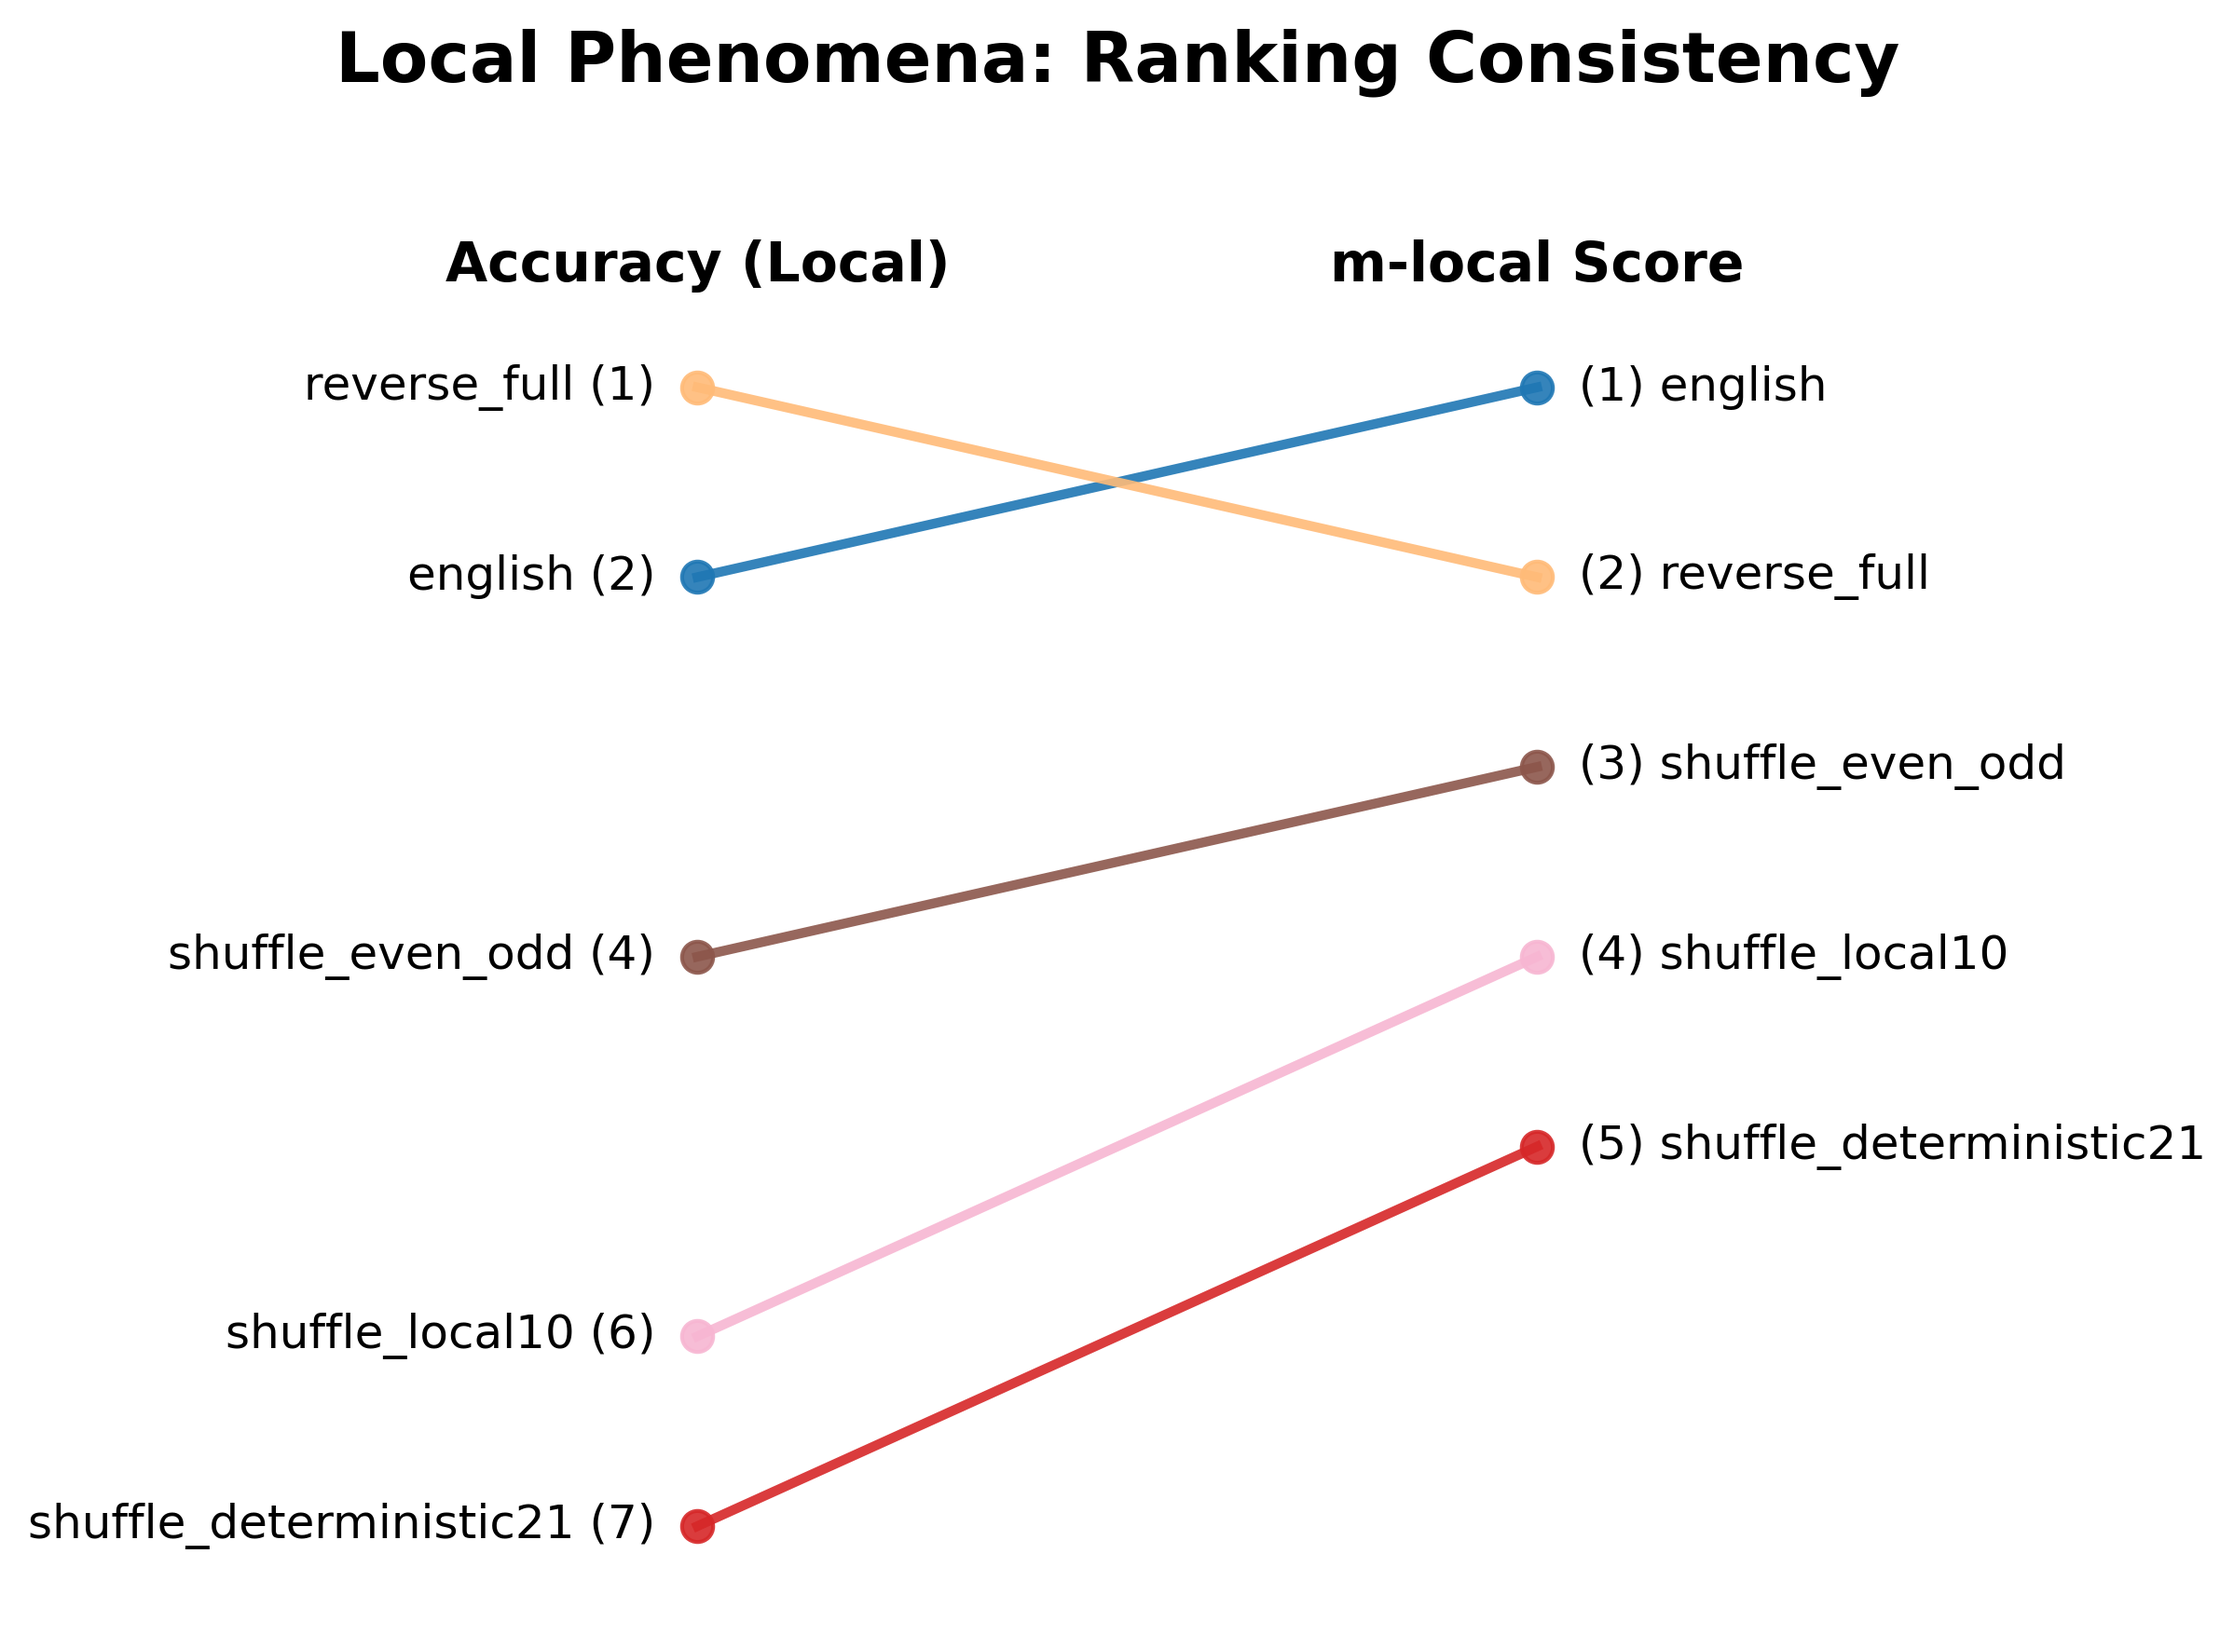
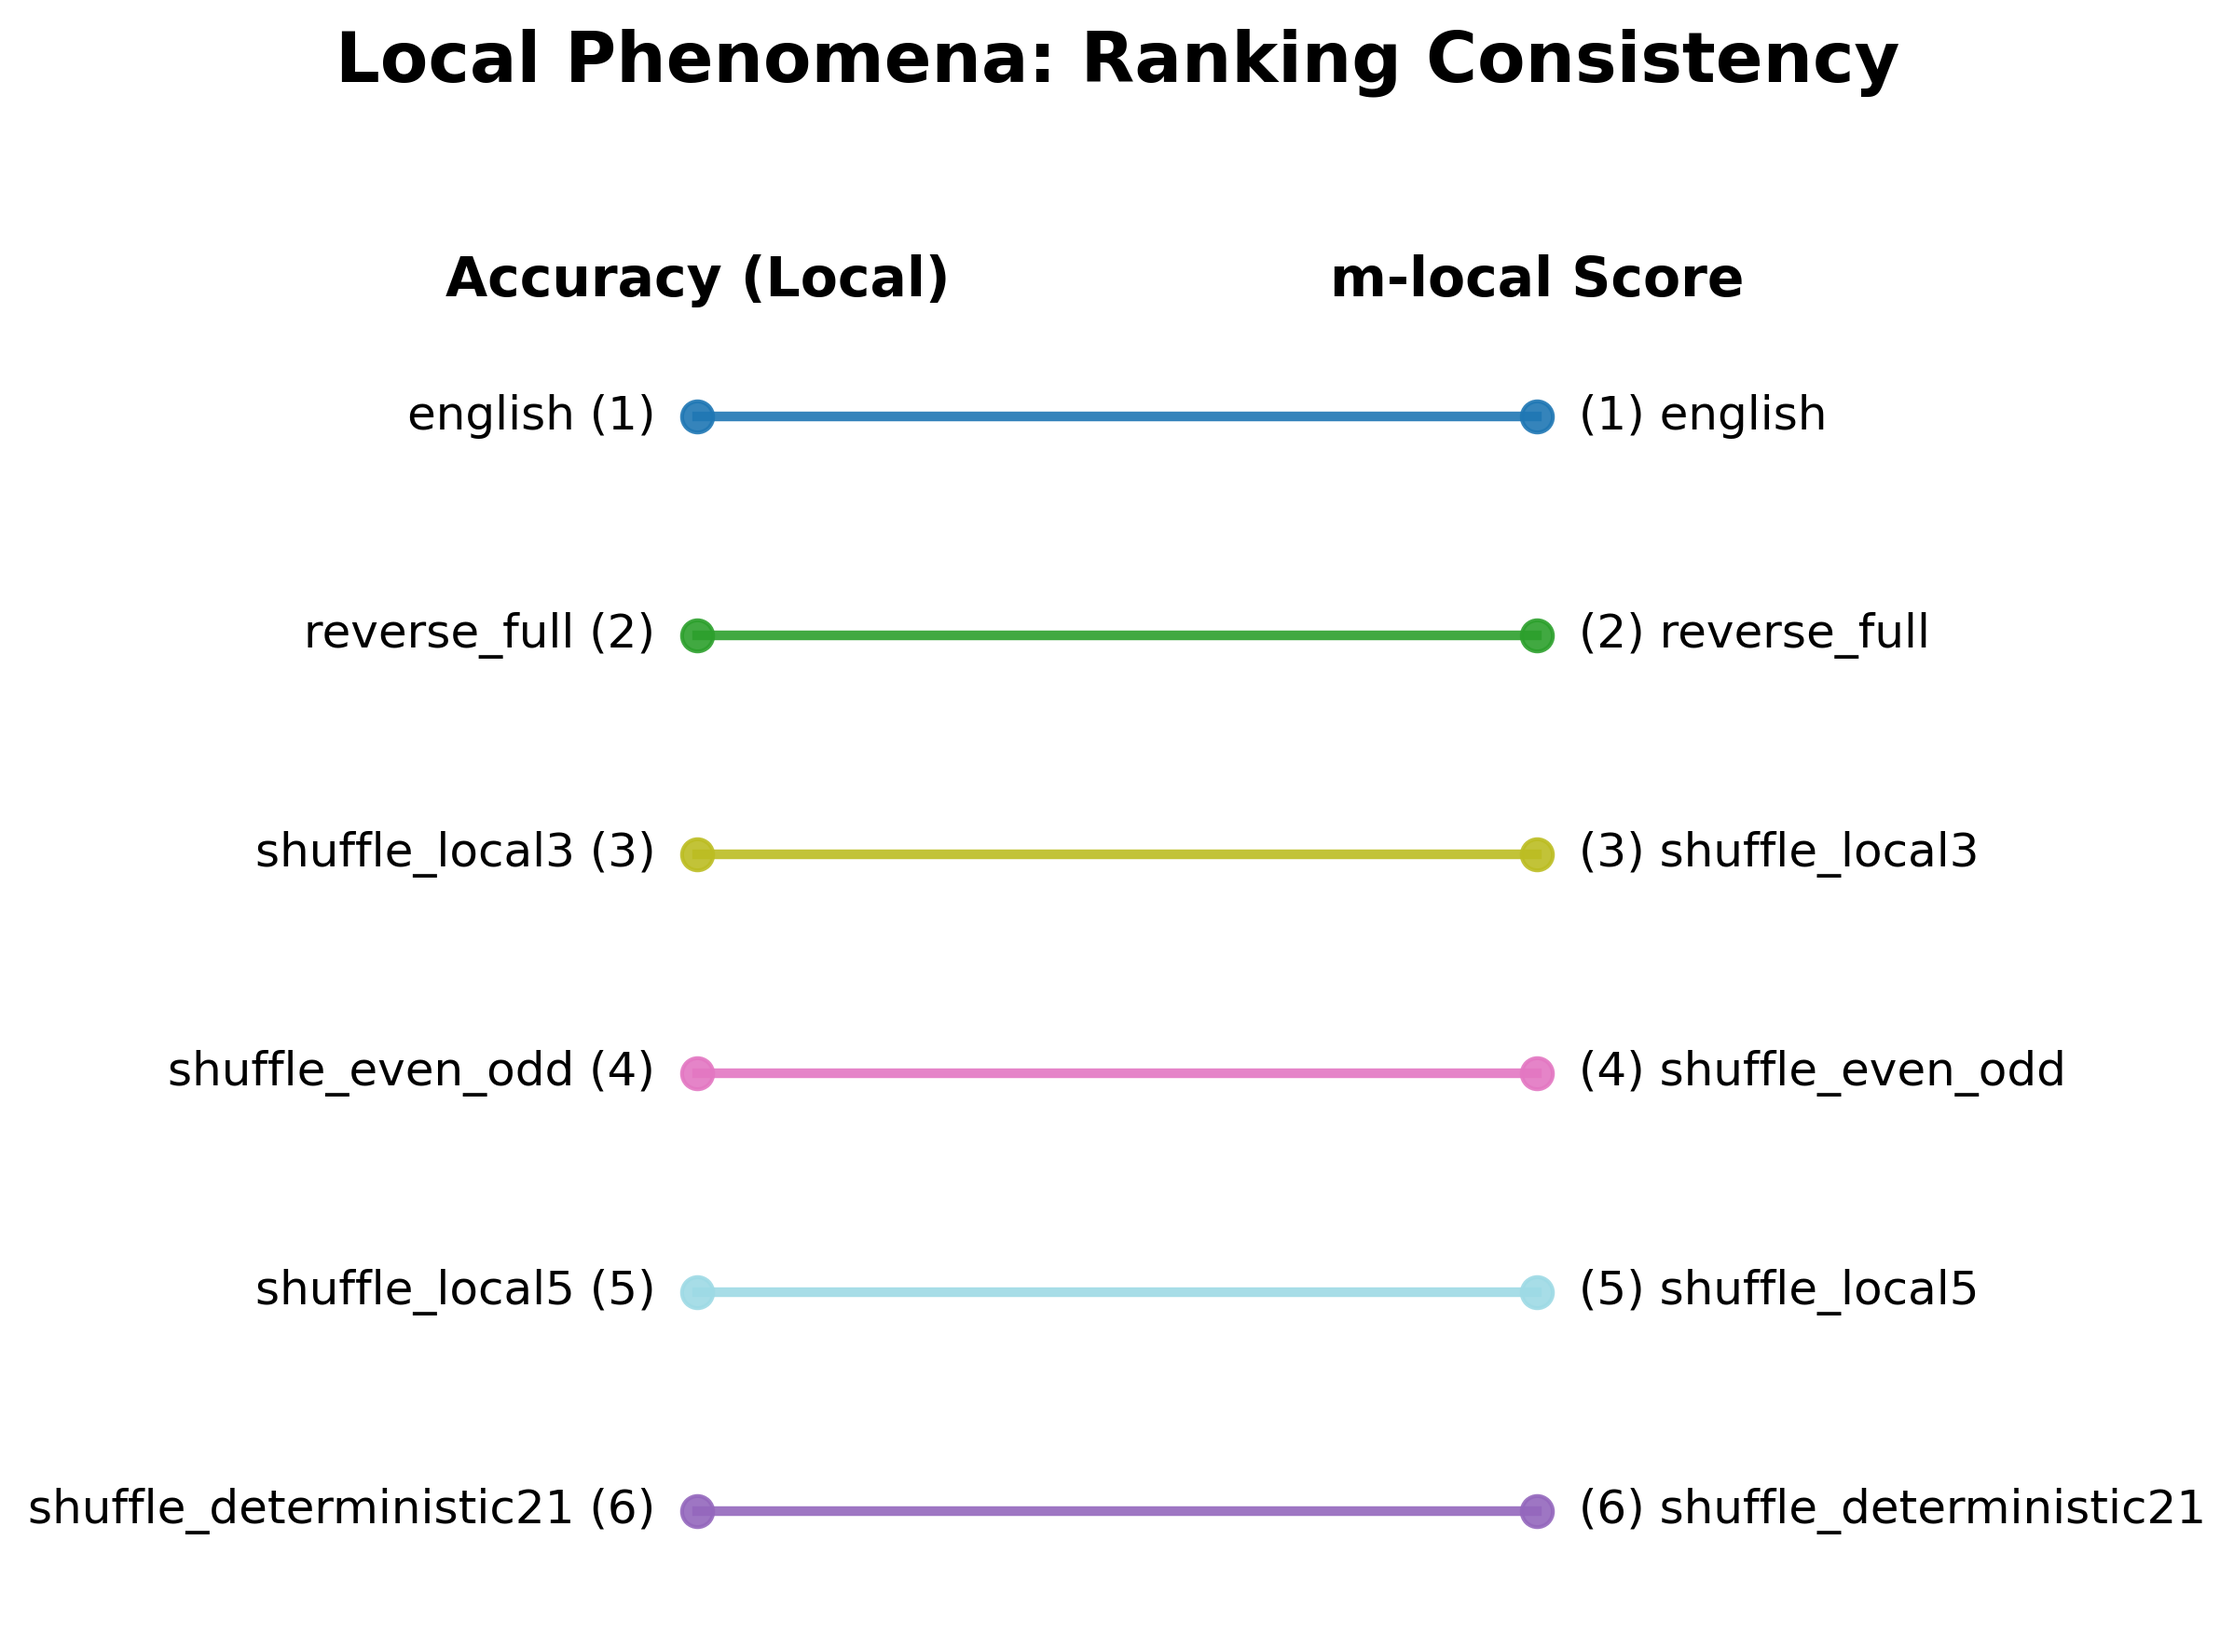
Update local and structural phenomena list

diff --git a/analysis/performance_statistics.py b/analysis/performance_statistics.py
@@ -535,8 +535,7 @@ def main():
     # save_performance_table_image(PHENOMENA_LIST, output_filename="performance_table_overall.png")
     local_ordering_phenomena = [
         "anaphor_gender_agreement", "anaphor_number_agreement",
-        # "animate_subject_passive",
-         "existential_there_quantifiers_1",
+        "existential_there_quantifiers_1",
         "irregular_past_participle_adjectives",
         "wh_questions_subject_gap", "wh_questions_subject_gap_long_distance",
     ]
@@ -544,6 +543,8 @@ def main():
 
     structural_phenomena = [
         "adjunct_island",
+        "animate_subject_passive",
+        "determiner_noun_agreement_with_adj_2",
         "distractor_agreement_relative_clause",
         "ellipsis_n_bar_1",
         "principle_A_c_command",
@@ -620,30 +621,25 @@ def main():
 
     # --- LOCAL PHENOMENA: CONSISTENCY COMPARISON ---
     print("\n--- Generating comparison plot for local phenomena rankings ---")
-    local_phenomena = [
-        "anaphor_gender_agreement", "anaphor_number_agreement",
-        "animate_subject_passive", "existential_there_quantifiers_1",
-        "wh_questions_subject_gap", "wh_questions_subject_gap_long_distance",
-    ]
     # Models and scores for the "m-local" metric
-    mlocal_labels = ["Base (english)", "Reverse (reverse_full)", "EvenOddShuffle (shuffle_even_odd)", "LocalShuffle(K=3) (shuffle_local3)", "LocalShuffle(K=5) (shuffle_local5)", "LocalShuffle(K=7) (shuffle_local10)", "DeterministicShuffle (shuffle_deterministic21)"]
+    mlocal_labels = ["Base", "Reverse", "EvenOddShuffle", "LocalShuffle(K=3)", "LocalShuffle(K=5)", "LocalShuffle(K=7)", "DeterministicShuffle"]
     mlocal_values = [2.92, 2.98, 3.76, 3.68, 3.88, 4.06, 4.60]
 
     # Map the custom labels to the model names used in the CSV file
     model_name_map = {
-        "Base (english)": "english", "Reverse (reverse_full)": "reverse_full",
-        "EvenOddShuffle (shuffle_even_odd)": "shuffle_even_odd", "LocalShuffle(K=3)": "shuffle_local3",
-        "LocalShuffle(K=5)": "shuffle_local5", "LocalShuffle(K=7) (shuffle_local10)": "shuffle_local10",
-        "DeterministicShuffle (shuffle_deterministic21)": "shuffle_deterministic21"
+        "Base": "english", "Reverse": "reverse_full",
+        "EvenOddShuffle": "shuffle_even_odd", "LocalShuffle(K=3)": "shuffle_local3",
+        "LocalShuffle(K=5)": "shuffle_local5",
+        "DeterministicShuffle": "shuffle_deterministic21"
     }
 
     # 1. Get Accuracy Ranking from CSV, restricted to the models in the m-local list
-    accuracy_ranking_local_all = get_performance_ranking(phenomena=local_phenomena, csv_path=csv_file)
+    accuracy_ranking_local_all = get_performance_ranking(phenomena=local_ordering_phenomena, csv_path=csv_file)
     accuracy_ranking_local = [m for m in accuracy_ranking_local_all if m in model_name_map.values()]
 
     # 2. Create m-local Ranking (lower score is better)
     sorted_mlocal = sorted(zip(mlocal_labels, mlocal_values), key=lambda item: item[1])
-    mlocal_ranking = [model_name_map[model] for model, value in sorted_mlocal if model in model_name_map]
+    mlocal_ranking = [model_name_map[model] for model, _ in sorted_mlocal if model in model_name_map]
     
     # 3. Plot the comparison
     plot_parallel_rankings(
@@ -657,11 +653,6 @@ def main():
 
     # --- STRUCTURAL PHENOMENA: INCONSISTENCY COMPARISON ---
     print("\n--- Generating comparison plot for structural phenomena rankings ---")
-    structural_phenomena = [
-        "adjunct_island", "distractor_agreement_relative_clause", "ellipsis_n_bar_1",
-        "principle_A_c_command", "wh_questions_object_gap", "wh_questions_object_gap_long_distance",
-        "left_branch_island_simple_question", "existential_there_quantifiers_1"
-    ]
     # Models and their scores for other structural metrics
     structural_models = MODEL_ORDER
     dep_dist_values = [2.04, 2.04, 2.61, 2.38, 2.67, 3.31, 3.59, 3.65, 3.65]
@@ -676,7 +667,7 @@ def main():
 
     # 3. Create Projectivity Ranking (higher score is better)
     sorted_projectivity = sorted(zip(structural_models, projectivity_values), key=lambda item: item[1], reverse=True)
-    projectivity_ranking = [model for model, value in sorted_projectivity]
+    projectivity_ranking = [model for model, _ in sorted_projectivity]
 
     # 4. Plot the comparison
     plot_parallel_rankings(
